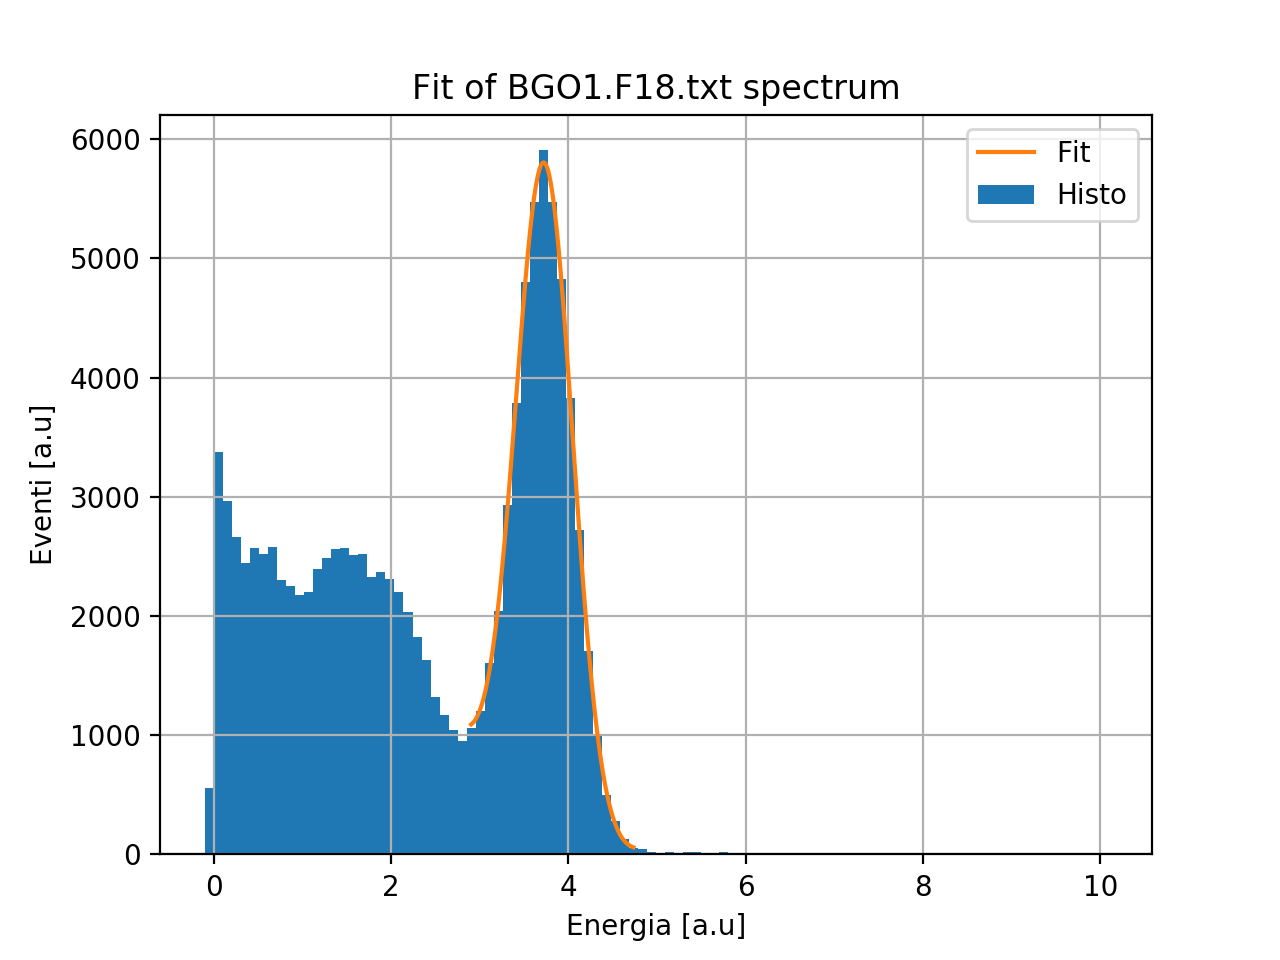
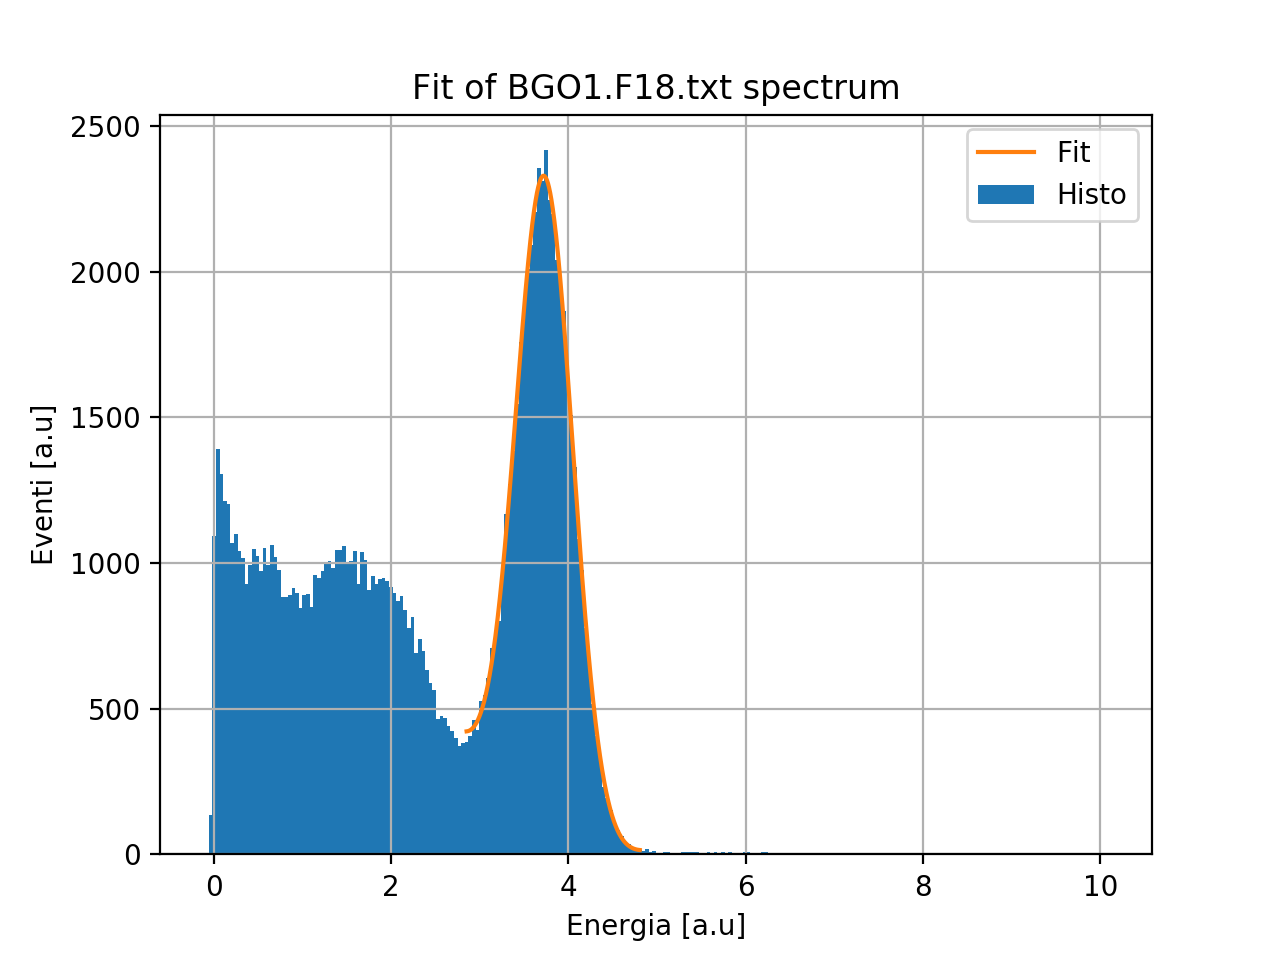
all images and results.

diff --git a/NaI/NaI_resolution.py b/NaI/NaI_resolution.py
@@ -50,30 +50,17 @@ def gaussian_skew(x,A,x0,sigma,alpha,m,q):
     return gauss(x,A,x0,sigma,m,q)+erf(alpha*(x-x0)/sigma)
 
 def kn(x):
-    #devo calibrare, voglio x in kev
-    #per il primo caso approssimo e viene 
-    #x=x*511/3.93
-    a=x/511
-    r=2.818     #fm
-    b=(1-2*(a+1)/(a*a))*np.log(2*a+1)
-    c=1/(2*(2*a +1)**2)
-    sigma=np.pi*r*r/a*(b+0.5+4/a -c)
-    ''' plt.figure()
-        a=xdata[0]*511/3.93
-        b=xdata[-1]*511/3.93
-        di=int(b-a)
-        xprova_histo=np.linspace(a,b,len(ydata))
-        xprova=np.linspace(a,b,1000)
-        #ydata,edges,__ = plt.hist(data_0,bins=100)
-        rr=7.4*0.87*1.5
-        plt.plot(xprova,rr*kn(xprova),label='KN')
-        plt.plot(xprova_histo,ydata,label='data')
-        plt.plot(xprova_histo,ydata-rr*kn(xprova_histo),label='y-kn')
-        plt.xlabel('Energy [Kev]')
-        plt.ylabel('c.s [fm]')
-        plt.legend()
-        plt.show()'''
+    E=511   #energia del gamma incidente
+    ct = 1 - (511 / E) * (E/x -1)
+    r = 2.81*10**(-13)    #cm
+    a =r*r*((1 + ct**2) / 2)
+    b = 1/((1 + E**2 *(1 - ct))**2)
+    c =1 + ((E*(1-ct)**2) / ( (1 + ct**2)*(1 + E*(1-ct)) ) )
+    sigma=a*b+c
     return sigma
+
+def fitfinale(x, C, mu, sigma, m, q, A):
+    return C * norm.pdf(x, mu, sigma) - m*x + q + A*kn(x)
 
 def chi2(xdata,ydata,f,*popt):
     """
@@ -111,26 +98,35 @@ def fit(xdata,ydata,first_extreme,second_extreme,parametri,_,item):
     x_fit=np.linspace(xdata_fit[0],xdata_fit[-1],1000)
 
     if ( _ == 0):
-        popt,pcov = curve_fit(gauss, xdata_fit, ydata_fit,p0=parametri)
+        '''popt,pcov = curve_fit(gauss, xdata_fit, ydata_fit,p0=parametri)
         y_fit=gauss(x_fit,*popt)
-        chiquadro=chi2(xdata_fit,ydata_fit,gauss,*popt)
+        chiquadro=chi2(xdata_fit,ydata_fit,gauss,*popt)'''
         '''popt,pcov = curve_fit(gaussian_skew, xdata_fit, ydata_fit,p0=parametri)
         y_fit=gaussian_skew(x_fit,*popt)
         chiquadro=chi2(xdata_fit,ydata_fit,gaussian_skew,*popt)'''
+        popt,pcov = curve_fit(fitfinale, xdata_fit, ydata_fit,p0=parametri)
+        y_fit=fitfinale(x_fit,*popt)
+        chiquadro=chi2(xdata_fit,ydata_fit,fitfinale,*popt)
     elif ( _ == 1):
-        popt,pcov = curve_fit(gauss, xdata_fit, ydata_fit,p0=parametri)
+        '''popt,pcov = curve_fit(gauss, xdata_fit, ydata_fit,p0=parametri)
         y_fit=gauss(x_fit,*popt)
-        chiquadro=chi2(xdata_fit,ydata_fit,gauss,*popt)
+        chiquadro=chi2(xdata_fit,ydata_fit,gauss,*popt)'''
         '''popt,pcov = curve_fit(gaussian_skew, xdata_fit, ydata_fit,p0=parametri)
         y_fit=gaussian_skew(x_fit,*popt)
         chiquadro=chi2(xdata_fit,ydata_fit,gaussian_skew,*popt)'''
+        popt,pcov = curve_fit(fitfinale, xdata_fit, ydata_fit,p0=parametri)
+        y_fit=fitfinale(x_fit,*popt)
+        chiquadro=chi2(xdata_fit,ydata_fit,fitfinale,*popt)
     else :
-        popt,pcov = curve_fit(gauss, xdata_fit, ydata_fit,p0=parametri)
+        '''popt,pcov = curve_fit(gauss, xdata_fit, ydata_fit,p0=parametri)
         y_fit=gauss(x_fit,*popt)
-        chiquadro=chi2(xdata_fit,ydata_fit,gauss,*popt)
+        chiquadro=chi2(xdata_fit,ydata_fit,gauss,*popt)'''
         '''popt,pcov = curve_fit(gaussian_skew, xdata_fit, ydata_fit,p0=parametri)
         y_fit=gaussian_skew(x_fit,*popt)
         chiquadro=chi2(xdata_fit,ydata_fit,gaussian_skew,*popt)'''
+        popt,pcov = curve_fit(fitfinale, xdata_fit, ydata_fit,p0=parametri)
+        y_fit=fitfinale(x_fit,*popt)
+        chiquadro=chi2(xdata_fit,ydata_fit,fitfinale,*popt)
     inc=np.sqrt(pcov.diagonal())
     
     if args.show is not None:
@@ -138,7 +134,7 @@ def fit(xdata,ydata,first_extreme,second_extreme,parametri,_,item):
         #mask=y_fit >0
         plt.figure()
         plt.title('Fit of {} spectrum'.format(item))
-        ydata,edges,_ = plt.hist(data_0,bins=100,label='Histo')
+        ydata,edges,_ = plt.hist(data_0,bins=n,label='Histo')
         plt.plot(x_fit,y_fit,label='Fit')
         plt.xlabel('Energia [a.u]')
         plt.ylabel('Eventi [a.u]')
@@ -153,22 +149,29 @@ if __name__ == '__main__':
     parser = argparse.ArgumentParser(description=_description)
     parser.add_argument('-s', '--show', help='Do you want to show the images?')
     args = parser.parse_args()
+    
 
     f = open('results/risoluzione.txt', 'w') 
-    f.write('{} \t{} \t{} \t{} \t{} \t{} \t \n '.format('Name','Res1','sigma(Res1)','Res2','sigma(Res2)','chi_square'))
+    f.write('{} \t{} \t{} \t{} \t \n '.format('Name','Res1','sigma(Res1)','chi_square'))
     file_grezzi = glob.glob('*.csv')
     change_extension(file_grezzi)
     files = glob.glob('*txt') 
     for _, item in enumerate(files):
         print('----- {} -----'.format(item))
         print(_)
-
+        if ( _ == 0):
+            n=400
+        elif ( _ == 1):
+            n=250
+        else :
+            n=250
+        
         """
         Load the file and obtain the histogram.
         """
         data_0 = np.loadtxt(item)
         plt.title('Spectrum of {}'.format(item))
-        ydata,edges,__ = plt.hist(data_0,bins=100)
+        ydata,edges,__ = plt.hist(data_0,bins=n)
         xdata = 0.5 * (edges[1:] + edges[:-1])
         plt.grid()
         plt.xlabel('Energia [a.u]')
@@ -179,19 +182,19 @@ if __name__ == '__main__':
         Find the border channels (extremes) manually defining parameters.
         """
         if ( _ == 0):
-            parametri=(100,1.31,0.1)         #gauss
+            parametri=(300,1.31,0.1)         #gauss
             #parametri=(100,1.31,0.1,-1)     #skew_gauss 
             #parametri =(50,3.93,0.1,50)     #gaussian KN
             first_extreme=1.19
-            second_extreme=1.39
+            second_extreme=1.4
         elif ( _ == 1):
-            parametri=(100,0.56,0.1)        #gauss
+            parametri=(300,0.56,0.1)        #gauss
             #parametri=(100,0.56,0.1,-1)     #skew_gauss
             #parametri =(50,3.35,0.1,50)     #gaussian KN
             first_extreme=0.47
             second_extreme=0.67
         else :
-            parametri=(100,1,0.1)         #gauss
+            parametri=(300,1,0.1)         #gauss
             #parametri=(100,1,0.1,-3)     #skew_gauss 
             #parametri =(50,3.93,0.1,50)     #gaussian KN
             first_extreme=0.91
@@ -201,15 +204,18 @@ if __name__ == '__main__':
         Find straight line between extreme points and perform the fit.
         """
         m,q=linear(xdata,ydata,first_extreme,second_extreme)
-        parametri=parametri + (m,) + (q,)
+        if ( _ == 0):
+            a=210#29593140
+        elif ( _ == 1):
+            a=210
+        else :
+            a=500
+        parametri=parametri + (m,) + (q,) +(a,)
         popt,u,chiquadro=fit(xdata,ydata,first_extreme,second_extreme,parametri,_,item)
 
         R1 = 2.35*popt[2]/popt[1]
-        R2=0
         uR1=2.35*np.sqrt((u[2]/popt[1])**2 + (popt[2]*u[1]/(popt[1]**2))**2)
-        uR2=0
+        logging.info('R = {} , {}'.format(R1, chiquadro))
 
-        logging.info('R = {} , {} , {}'.format(R1,R2, chiquadro))
-
-        f.write('{} \t{} \t{} \t{} \t{} \t{} \t \n '.format(item,R1,uR1,R2,uR2,chiquadro))
+        f.write('{} \t{} \t{} \t{} \t \n '.format(item,R1,uR1,chiquadro))
     f.close()

diff --git a/LSO/LSO_resolution.py b/LSO/LSO_resolution.py
@@ -62,6 +62,8 @@ def kn(x):
 def fitfinale(x, C, mu, sigma, m, q, A):
     return C * norm.pdf(x, mu, sigma) - m*x + q + A*kn(x)
 
+def fitfinale2(x,a1,b1,c1,a2,b2,c2,m,q,A):
+    return dg(x,a1,b1,c1,a2,b2,c2,m,q) + A*kn(x)
 
 def chi2(xdata,ydata,f,*popt):
     """
@@ -123,9 +125,12 @@ def fit(xdata,ydata,first_extreme,second_extreme,parametri,_,item):
         y_fit=fitfinale(x_fit,*popt)
         chiquadro=chi2(xdata_fit,ydata_fit,fitfinale,*popt)
     elif ( _ == 2):
-        popt,pcov = curve_fit(dg, xdata_fit, ydata_fit,p0=parametri)
+        '''popt,pcov = curve_fit(dg, xdata_fit, ydata_fit,p0=parametri)
         y_fit=dg(x_fit,*popt)
-        chiquadro=chi2(xdata_fit,ydata_fit,dg,*popt)
+        chiquadro=chi2(xdata_fit,ydata_fit,dg,*popt)'''
+        popt,pcov = curve_fit(fitfinale2, xdata_fit, ydata_fit,p0=parametri)
+        y_fit=fitfinale2(x_fit,*popt)
+        chiquadro=chi2(xdata_fit,ydata_fit,fitfinale2,*popt)
     elif ( _ == 3):
         '''popt,pcov = curve_fit(gauss, xdata_fit, ydata_fit,p0=parametri)
         y_fit=gauss(x_fit,*popt)
@@ -137,9 +142,12 @@ def fit(xdata,ydata,first_extreme,second_extreme,parametri,_,item):
         y_fit=fitfinale(x_fit,*popt)
         chiquadro=chi2(xdata_fit,ydata_fit,fitfinale,*popt)
     else :
-        popt,pcov = curve_fit(dg, xdata_fit, ydata_fit,p0=parametri)
+        '''popt,pcov = curve_fit(dg, xdata_fit, ydata_fit,p0=parametri)
         y_fit=dg(x_fit,*popt)
-        chiquadro=chi2(xdata_fit,ydata_fit,dg,*popt)
+        chiquadro=chi2(xdata_fit,ydata_fit,dg,*popt)'''
+        popt,pcov = curve_fit(fitfinale2, xdata_fit, ydata_fit,p0=parametri)
+        y_fit=fitfinale2(x_fit,*popt)
+        chiquadro=chi2(xdata_fit,ydata_fit,fitfinale2,*popt)
     inc=np.sqrt(pcov.diagonal())
     print('000 -> A = {}'.format(popt[3]))
     
@@ -148,7 +156,7 @@ def fit(xdata,ydata,first_extreme,second_extreme,parametri,_,item):
         #mask=y_fit >0
         plt.figure()
         plt.title('Fit of {} spectrum'.format(item))
-        ydata,edges,_ = plt.hist(data_0,bins=100,label='Histo')
+        ydata,edges,_ = plt.hist(data_0,bins=n,label='Histo')
         plt.plot(x_fit,y_fit,label='Fit')
         plt.xlabel('Energia [a.u]')
         plt.ylabel('Eventi [a.u]')
@@ -172,13 +180,23 @@ if __name__ == '__main__':
     for _, item in enumerate(files):
         print('----- {} -----'.format(item))
         print(_)
+        if ( _ == 0):
+            n=400
+        elif ( _ == 1):
+            n=400
+        elif ( _ == 2):
+            n=700
+        elif ( _ == 3):
+            n=300
+        else :
+            n=700
 
         """
         Load the file and obtain the histogram.
         """
         data_0 = np.loadtxt(item)
         plt.title('Spectrum of {}'.format(item))
-        ydata,edges,__ = plt.hist(data_0,bins=100)
+        ydata,edges,__ = plt.hist(data_0,bins=n)
         xdata = 0.5 * (edges[1:] + edges[:-1])
         plt.grid()
         plt.xlabel('Energia [a.u]')
@@ -226,7 +244,8 @@ if __name__ == '__main__':
             a=110
             parametri=parametri + (m,) + (q,) + (a,)
         else:
-            parametri=parametri + (m,) + (q,)
+            a=110
+            parametri=parametri + (m,) + (q,) + (a,)
         popt,u,chiquadro=fit(xdata,ydata,first_extreme,second_extreme,parametri,_,item)
 
         if (_ == 2 or _ == 4):

diff --git a/BGO/BGO_resolution.py b/BGO/BGO_resolution.py
@@ -135,7 +135,7 @@ def fit(xdata,ydata,first_extreme,second_extreme,parametri,_,item):
         #mask=y_fit >0
         plt.figure()
         plt.title('Fit of {} spectrum'.format(item))
-        ydata,edges,_ = plt.hist(data_0,bins=100,label='Histo')
+        ydata,edges,_ = plt.hist(data_0,bins=n,label='Histo')
         plt.plot(x_fit,y_fit,label='Fit')
         plt.xlabel('Energia [a.u]')
         plt.ylabel('Eventi [a.u]')
@@ -163,13 +163,19 @@ if __name__ == '__main__':
     for _, item in enumerate(files):
         print('----- {} -----'.format(item))
         print(_)
+        if ( _ == 0):
+            n=400
+        elif ( _ == 1):
+            n=250
+        else :
+            n=250
 
         """
         Load the file and obtain the histogram.
         """
         data_0 = np.loadtxt(item)
         plt.title('Spectrum of {}'.format(item))
-        ydata,edges,__ = plt.hist(data_0,bins=100)
+        ydata,edges,__ = plt.hist(data_0,bins=n)
         xdata = 0.5 * (edges[1:] + edges[:-1])
         plt.grid()
         plt.xlabel('Energia [a.u]')
@@ -203,7 +209,7 @@ if __name__ == '__main__':
         """
         m,q=linear(xdata,ydata,first_extreme,second_extreme)
         if ( _ == 0):
-            a=7557630#29593140
+            a=7557630
         elif ( _ == 1):
             a=210
         else :
